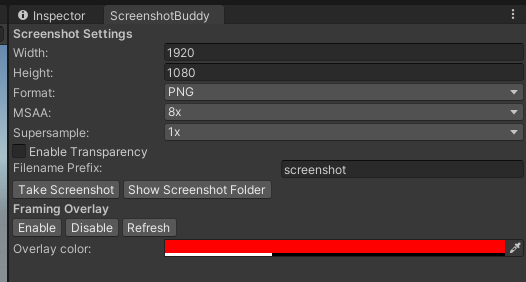
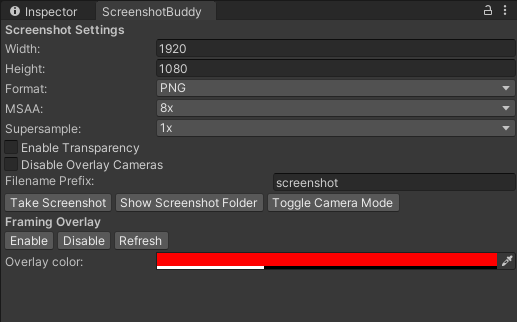
Add gameview camera mode, for DOF etc

diff --git a/Editor/ScreenshotBuddy.cs b/Editor/ScreenshotBuddy.cs
@@ -4,6 +4,10 @@ using System.IO;
 using System.Collections.Generic;
 using UnityEngine;
 using UnityEditor;
+using UnityEngine.Rendering;
+#if URP_AVAILABLE
+using UnityEngine.Rendering.Universal;
+#endif
 
 namespace ChocoMintSoftworks.ScreenshotBuddy
 {
@@ -24,7 +28,10 @@ namespace ChocoMintSoftworks.ScreenshotBuddy
     public static bool enableTransparency = false;
     public static string[] superSampleOptions = new string[] { "1x", "2x", "3x", "4x" };
     public static int selectedSuperSample = 0;
+    public static bool disableOverlayCameras = false;
     private static bool ppOriginalState = false;
+    private static bool enableGameLikeCamera = false;
+    private static bool previousGridSetting = false;
 
     public static Color32 overlayColor = new Color32(255, 0, 0, 80);
 
@@ -58,6 +65,7 @@ namespace ChocoMintSoftworks.ScreenshotBuddy
       selectedMsaaSamples = EditorGUILayout.Popup("MSAA:", selectedMsaaSamples, availableMsaaSamples);
       selectedSuperSample = EditorGUILayout.Popup("Supersample:", selectedSuperSample, superSampleOptions);
       enableTransparency = GUILayout.Toggle(enableTransparency, "Enable Transparency");
+      disableOverlayCameras = GUILayout.Toggle(disableOverlayCameras, "Disable Overlay Cameras");
       if (enableTransparency)
       {
         GUILayout.Label("Notice: Enabling transparency disables post processing due to a unity bug.", EditorStyles.label);
@@ -75,6 +83,10 @@ namespace ChocoMintSoftworks.ScreenshotBuddy
       if (GUILayout.Button("Show Screenshot Folder", GUILayout.ExpandWidth(false)))
       {
         OpenScreenshotFolder();
+      }
+      if (GUILayout.Button("Toggle Camera Mode", GUILayout.ExpandWidth(false)))
+      {
+        ToggleCameraMode();
       }
       GUILayout.EndHorizontal();
 
@@ -151,7 +163,8 @@ namespace ChocoMintSoftworks.ScreenshotBuddy
         DestroyImmediate(cam.targetTexture);
       }
 
-      var renderDesc = new RenderTextureDescriptor(resWidth * GetSuperSampleValue(), resHeight * GetSuperSampleValue(), RenderTextureFormat.ARGB32, 32);
+      var renderDesc = new RenderTextureDescriptor(resWidth * GetSuperSampleValue(), resHeight * GetSuperSampleValue(), RenderTextureFormat.ARGB32, 24);
+      renderDesc.sRGB = true;
 
       switch (selectedMsaaSamples)
       {
@@ -186,6 +199,13 @@ namespace ChocoMintSoftworks.ScreenshotBuddy
       cam.targetTexture = RenderTexture.GetTemporary(renderDesc);
       RenderTexture renderTexture = cam.targetTexture;
 
+#if URP_AVAILABLE
+      if (IsURP() && disableOverlayCameras)
+      {
+        cam.GetUniversalAdditionalCameraData().cameraStack.Clear();
+      }
+#endif
+
       cam.Render();
 
       if (renderTexture == null)
@@ -201,17 +221,6 @@ namespace ChocoMintSoftworks.ScreenshotBuddy
       RenderTexture.active = renderTexture;
 
       outputTexture.ReadPixels(new Rect(0, 0, width, height), 0, 0);
-
-      // Convert to srgb if using linear color space
-      if (QualitySettings.activeColorSpace == ColorSpace.Linear)
-      {
-        Color[] pixels = outputTexture.GetPixels();
-        for (int p = 0; p < pixels.Length; p++)
-        {
-          pixels[p] = pixels[p].gamma;
-        }
-        outputTexture.SetPixels(pixels);
-      }
       outputTexture.Apply();
 
       // Dowsample image in half steps, otherwise the end result will be very aliased
@@ -310,6 +319,46 @@ namespace ChocoMintSoftworks.ScreenshotBuddy
     }
 
 
+    private static void ToggleCameraMode()
+    {
+      SceneView sw = SceneView.lastActiveSceneView;
+
+      if (sw == null)
+      {
+        Debug.LogError("no scene view found. Make sure you have a scene view window opened.");
+        return;
+      }
+
+      Camera cam = sw.camera;
+
+      if (cam == null)
+      {
+        Debug.LogError("no camera attached to current scene view.");
+        return;
+      }
+
+      if (!enableGameLikeCamera)
+      {
+        previousGridSetting = sw.showGrid;
+        enableGameLikeCamera = true;
+        cam.cameraType = CameraType.Game;
+        sw.showGrid = false;
+#if URP_AVAILABLE
+      if (IsURP() && disableOverlayCameras)
+      {
+        cam.GetUniversalAdditionalCameraData().cameraStack.Clear();
+      }
+#endif
+      }
+      else
+      {
+        sw.showGrid = previousGridSetting;
+        enableGameLikeCamera = false;
+        cam.cameraType = CameraType.SceneView;
+      }
+
+    }
+
     // Original source of the texture resizing code:
     // https://forum.unity.com/threads/how-to-resize-scale-down-texture-without-losing-quality.976965/
     public static Texture2D RenderMaterial(ref Material material, Vector2Int resolution)
@@ -341,6 +390,11 @@ namespace ChocoMintSoftworks.ScreenshotBuddy
       string sample = superSampleOptions[selectedSuperSample].Substring(0, 1);
       return int.Parse(sample);
     }
+
+    private static bool IsURP()
+    {
+      string assetTypeURP = "UniversalRenderPipelineAsset";
+      return GraphicsSettings.renderPipelineAsset.GetType().Name.Contains(assetTypeURP);
+    }
   }
 }
-

diff --git a/README.md b/README.md
@@ -5,6 +5,7 @@ Tested and coded using Unity 2020.3 LTS.
 * Screenshots directly from your scene view camera
 * Freely choose the resolution
 * Downsample for even better AA than the max 8x MSAA
+* Use Game View PP features like DOF (using the Toggle Camera Mode button)
 * Save as PNG, JPG (with configurable quality) or TGA
 * Save transparent screenshots (for example, in prefab view)
 * Framing Overlay that takes the ratio directly from your choosen resolution
